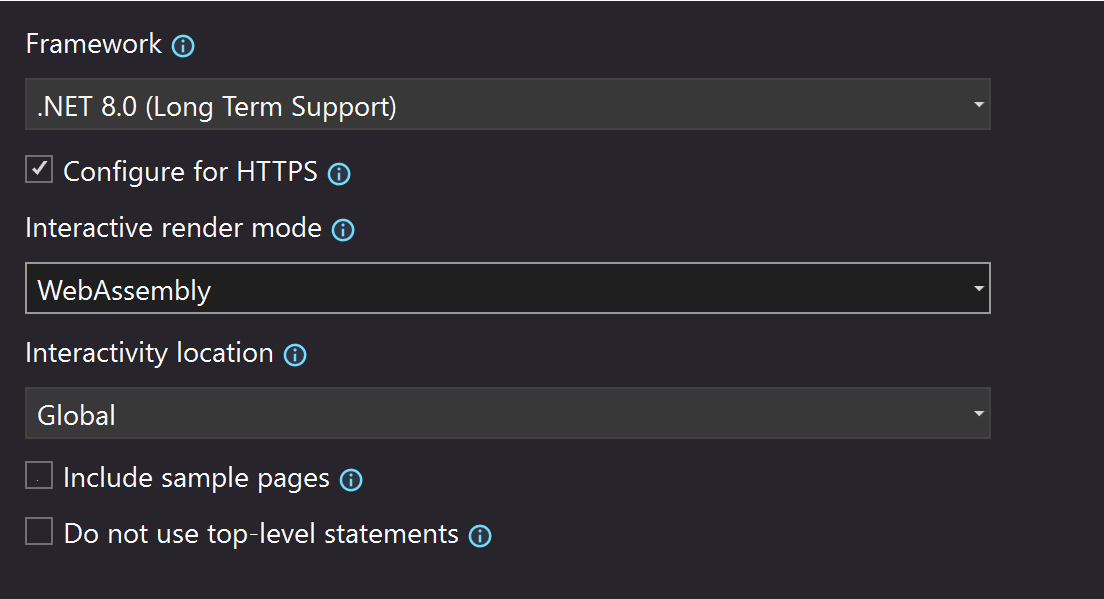
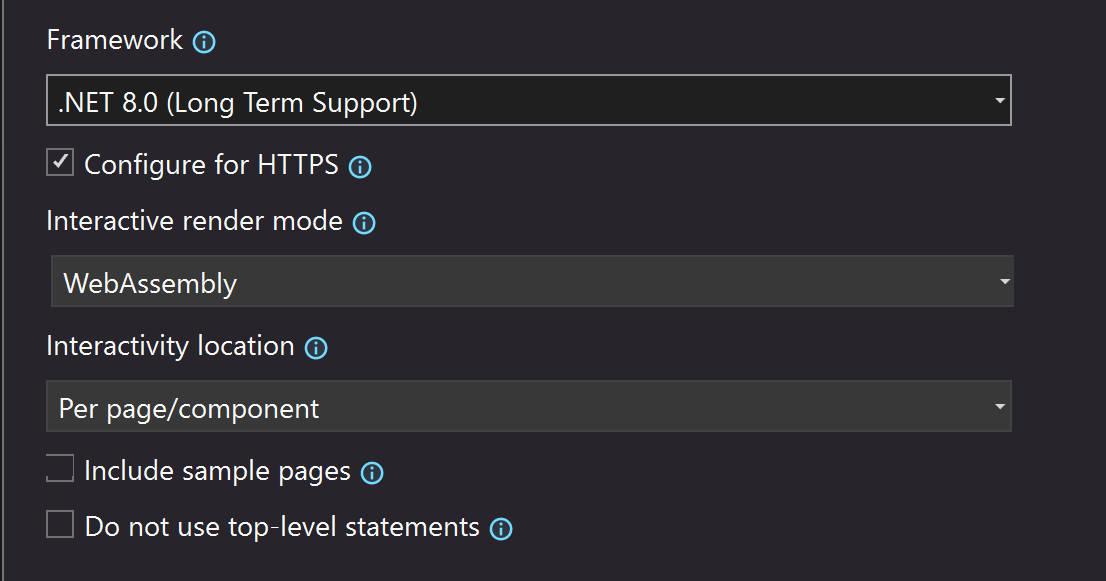
Changes to support rendering mode: WebAssembly - Per page/component

diff --git a/Readme.md b/Readme.md
@@ -37,9 +37,13 @@ To manually set this up yourself in Visual Studio, follow these steps
 
 6.  Move the `Components` folder and all of its contents from `MyApp.MAUI` to `MyApp.Shared` (Ctrl+X, Ctrl+V)
 
-7.  Move `wwwroot/css` folder and all of its contents from from `MyApp.MAUI` to `MyApp.Shared` (Ctrl+X, Ctrl+V)
+7.  Open the `Counter.razor` page and under the `@page` directive add the following code:
+```code
+@rendermode InteractiveWebAssembly
+```
+8.  Move `wwwroot/css` folder and all of its contents from from `MyApp.MAUI` to `MyApp.Shared` (Ctrl+X, Ctrl+V)
 
-8. Move `_Imports.razor` from `MyApp.MAUI` to `MyApp.Shared` (overwrite the one that is there)
+9. Move `_Imports.razor` from `MyApp.MAUI` to `MyApp.Shared` (overwrite the one that is there)
     and rename the last two `@using`s to `MyApp.Shared`
 
 ```code
@@ -47,20 +51,20 @@ To manually set this up yourself in Visual Studio, follow these steps
 @using MyApp.Shared
 @using MyApp.Shared.Components
 ```
-9. Open the `_Imports.razor` files in both `MyApp.Web` and `MyApp.Web.Client` add a `@using` to `MyApp.Shared`
+10. Open the `_Imports.razor` files in both `MyApp.Web` and `MyApp.Web.Client` add a `@using` to `MyApp.Shared`
 
 ```code
 ...
 @using MyApp.Shared
 ```
-10.  Move `Routes.razor` from `MyApp.MAUI` to `MyApp.Shared` (Ctrl+X, Ctrl+V). 
+11.  Move `Routes.razor` from `MyApp.MAUI` to `MyApp.Shared` (Ctrl+X, Ctrl+V). 
 
-11.  Open the `Routes.razor` file and change `MauiProgram` to `Routes`:
+12.  Open the `Routes.razor` file and change `MauiProgram` to `Routes`:
 ```
 <Router AppAssembly="@typeof(Routes).Assembly">
 ...
 ```
-12. Open the `MainPage.xaml` in the `MyApp.MAUI` project and add a `xmlns:shared` reference to the
+13. Open the `MainPage.xaml` in the `MyApp.MAUI` project and add a `xmlns:shared` reference to the
     `MyApp.Shared` RCL and update the `BlazorWebView` `RootComponent` `ComponentType` from `local` to `shared`:
 ```xml
 <?xml version="1.0" encoding="utf-8" ?>
@@ -79,7 +83,7 @@ To manually set this up yourself in Visual Studio, follow these steps
 </ContentPage>
 ```
 
-13. In the `MyApp.MAUI` project open `wwwroot/index.html` and change stylesheets to point to
+14. In the `MyApp.MAUI` project open `wwwroot/index.html` and change stylesheets to point to
     `_content/MyApp.Shared/`:
 
 ```xml
@@ -87,18 +91,18 @@ To manually set this up yourself in Visual Studio, follow these steps
 <link rel="stylesheet" href="_content/MyApp.Shared/css/app.css" />
 ```
 
-14. Open `App.razor` from `MyApp.Web` project `Components` folder and **add** the stylesheet references to
+15. Open `App.razor` from `MyApp.Web` project `Components` folder and **add** the stylesheet references to
     the `MyApp.Shared` there too:
 
 ```xml
 <link rel="stylesheet" href="_content/MyApp.Shared/css/bootstrap/bootstrap.min.css" />
 <link rel="stylesheet" href="_content/MyApp.Shared/css/app.css" />   
 ```
-15.  In the `MyApp.Web` project, delete files `Routes.razor`, `Layouts` folder & all its contents, and `Pages\Home.razor` (leave the `Error.razor` page)
+16.  In the `MyApp.Web` project, delete files `Routes.razor`, `Layouts` folder & all its contents, and `Pages\Home.razor` (leave the `Error.razor` page)
 
-16.  In the `MyApp.Web.Client` project, delete files `Routes.razor`, `Layouts` folder & all its contents, and `Pages` folder and all of its contents.
+17.  In the `MyApp.Web.Client` project, delete files `Routes.razor`, `Layouts` folder & all its contents, and `Pages` folder and all of its contents.
 
-17. Open `MyApp.Web` project `Program.cs` file and `AddAddionalAssemblies` to `MapRazorComponents`:
+18. Open `MyApp.Web` project `Program.cs` file and `AddAddionalAssemblies` to `MapRazorComponents`:
 
 ```code
 app.MapRazorComponents<App>()    
